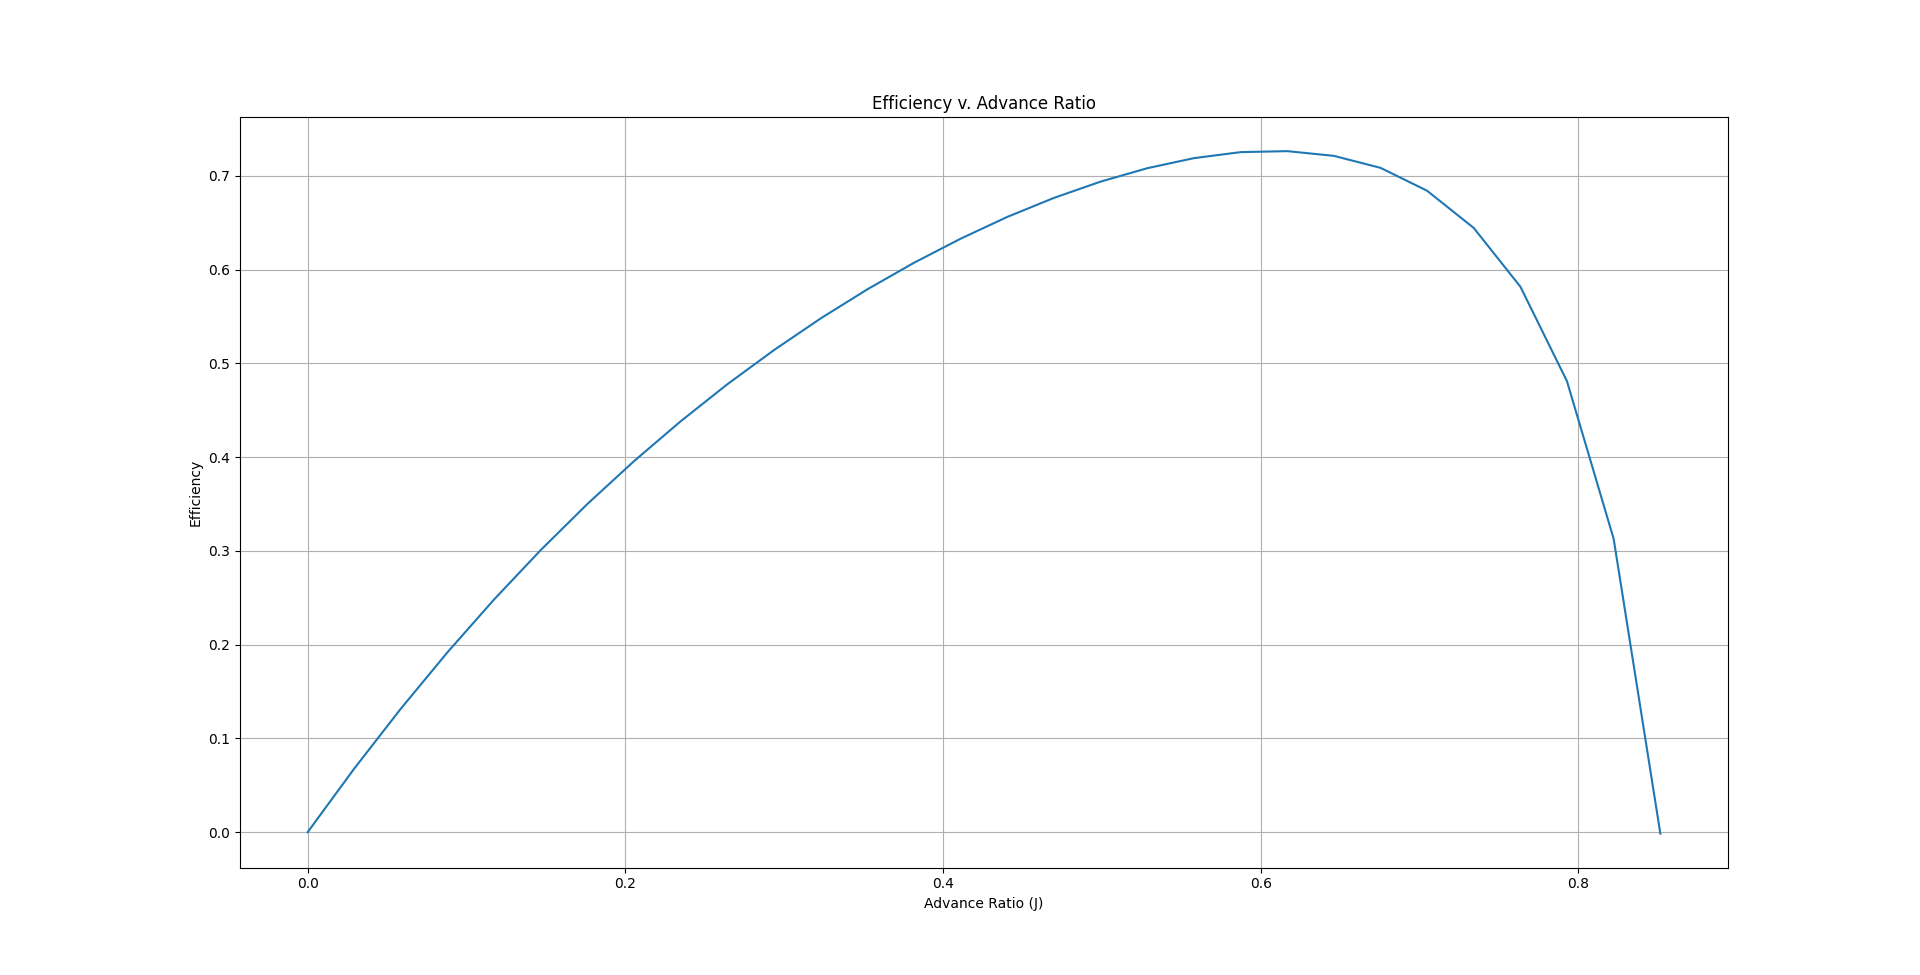
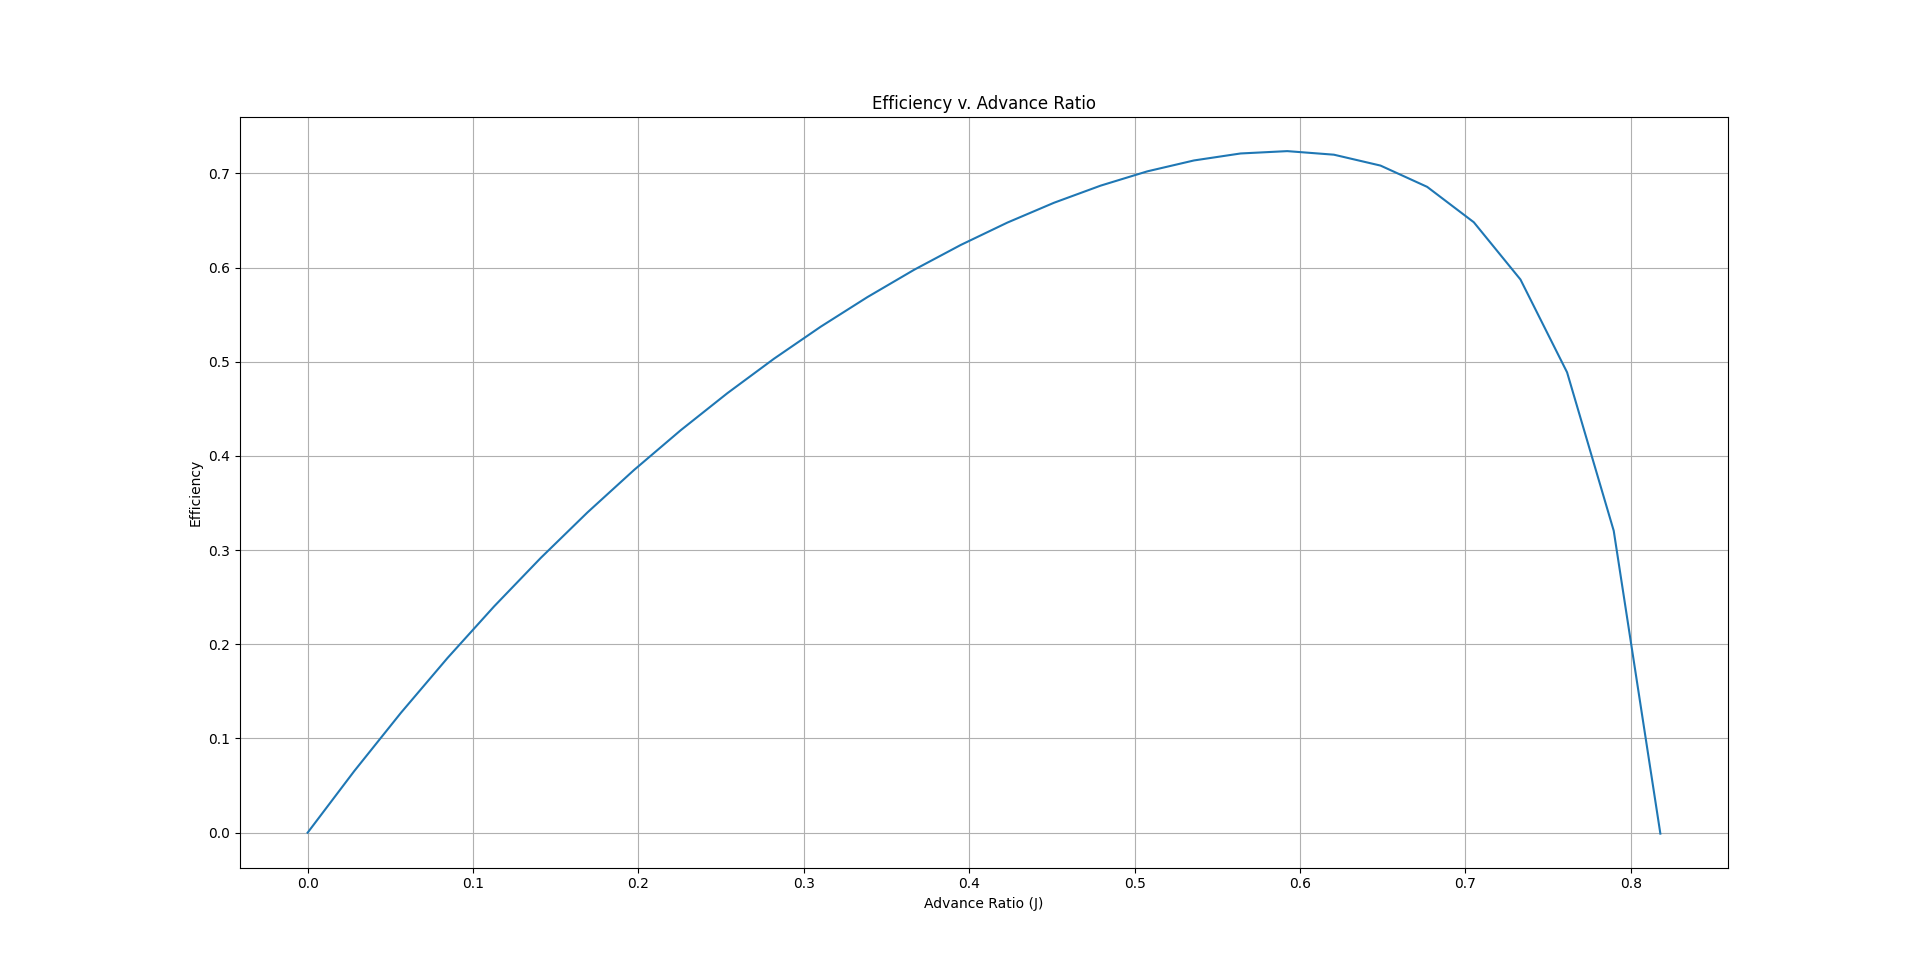
Add files via upload

diff --git a/MAE155B_Prop/MAE155B_Prop.py b/MAE155B_Prop/MAE155B_Prop.py
@@ -24,6 +24,8 @@ import numpy as np
 import pandas as pd
 import prettytable as pt
 
+os.system('cls') # Clearing terminal
+
 ## Atmospheric Parameters
 g = 9.81 # gravitational acceleration [in m/s^2]
 gamma = 1.4 # specific heat ratio
@@ -37,36 +39,36 @@ a = math.sqrt(gamma*R*temp) # speed of sound [in m/s]
 ## Propulsion Configuration (refer to MAE155B_Sizing_Scoring.py)
 # Motor/Prop Configuration
 motor = "Cobra C-2217/16 Brushless Motor"
-prop = "APC 10x7-E"
+prop = "APC 9x6-E"
+prop_data = pd.read_csv("MAE155B_Data/prop_data_6000rpm.csv")
 
 # Configuration Parameters
 B = 2 # number of blades on propeller
-D = 0.254 # outside diameter (from APC website) [in m]
+D = 0.2286 # outside diameter (from APC website) [in m]
 S = math.pi*(D/2)**2 # disk area [in m^2]
 
 ## Propulsion Parameters
 # Cruise Conditions (from APC 10x7-E Simulation Document)
 V_inf = 18 # assumed cruise/freestream velocity [in m/s]
-n = 6000/60 # rotational speed at cruise conditions [in RPS]
-J_cruise = V_inf/(n*D) # advance ratio at cruise conditions
-T_cruise = 1.519 # thrust at cruise conditions [in N]
-Q_cruise = 0.063 # torque at cruise conditions [in N-m]
-PWR_cruise = 39.734 # power at cruise conditions [in W]
-CT_cruise = T_cruise/(rho*(n**2)*(D**4)) # thrust coefficient at cruise conditions
-CQ_cruise = Q_cruise/(rho*(n**2)*(D**5)) # torque coefficient at cruise conditions
-CP_cruise = PWR_cruise/(rho*(n**3)*(D**5)) # power coefficient at cruise conditions
+n_m = 9000 # rotational speed at cruise conditions [in RPM]
+n_s = n_m/60 # rotational speed at cruise conditions [in RPS]
+J_cruise = V_inf/(n_s*D) # advance ratio at cruise conditions
+T_cruise = 4.655 # thrust at cruise conditions [in N]
+Q_cruise = 0.127 # torque at cruise conditions [in N-m]
+PWR_cruise = 119.834 # power at cruise conditions [in W]
+CT_cruise = T_cruise/(rho*(n_s**2)*(D**4)) # thrust coefficient at cruise conditions
+CQ_cruise = Q_cruise/(rho*(n_s**2)*(D**5)) # torque coefficient at cruise conditions
+CP_cruise = PWR_cruise/(rho*(n_s**3)*(D**5)) # power coefficient at cruise conditions
 eta_cruise = CT_cruise*J_cruise/CP_cruise # efficiency at cruise conditions
 
-os.system('cls') # Clearing terminal
-
-print("Below are the propulsion parameters for the motor/propeller configuration at cruise conditions:")
+print("Propulsion Parameters (At Cruise Condition):")
 prop_tab = pt.PrettyTable(["Parameter", "Unit", "Value"])
 prop_tab.add_row(["Motor", "---", motor])
 prop_tab.add_row(["Propeller", "---", prop])
 prop_tab.add_row(["Number of Blades", "---", B])
 prop_tab.add_row(["Outside Diameter", "m", D])
 prop_tab.add_row(["Freestream Velocity", "m/s", V_inf])
-prop_tab.add_row(["Propeller Rotational Velocity", "RPM", n])
+prop_tab.add_row(["Propeller Rotational Velocity", "RPM", n_m])
 prop_tab.add_row(["Advance Ratio", "---", J_cruise])
 prop_tab.add_row(["Thrust", "N", T_cruise])
 prop_tab.add_row(["Torque", "N-m", Q_cruise])
@@ -79,11 +81,10 @@ prop_tab.add_row(["Efficiency", "---", eta_cruise])
 print(prop_tab)
 
 # At variable freestream velocity
-prop_data = pd.read_csv("MAE155B_Data/prop_data_6000rpm.csv")
 J = prop_data['J']
-CT = prop_data['Thrust.1']/(rho*(n**2)*(D**4)) # thrust coefficient
-CQ = prop_data['Torque.1']/(rho*(n**2)*(D**5)) # torque coefficient
-CP = prop_data['PWR.1']/(rho*(n**3)*(D**5)) # power coefficient
+CT = prop_data['Thrust.1']/(rho*(n_s**2)*(D**4)) # thrust coefficient
+CQ = prop_data['Torque.1']/(rho*(n_s**2)*(D**5)) # torque coefficient
+CP = prop_data['PWR.1']/(rho*(n_s**3)*(D**5)) # power coefficient
 eta = CT*J/CP # efficiency
 
 ## Plotting
